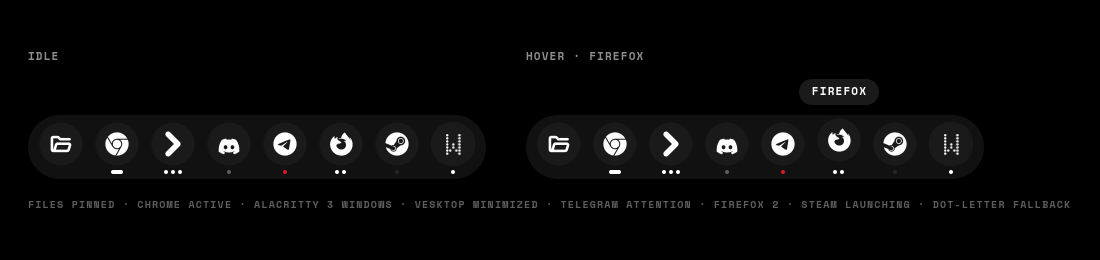
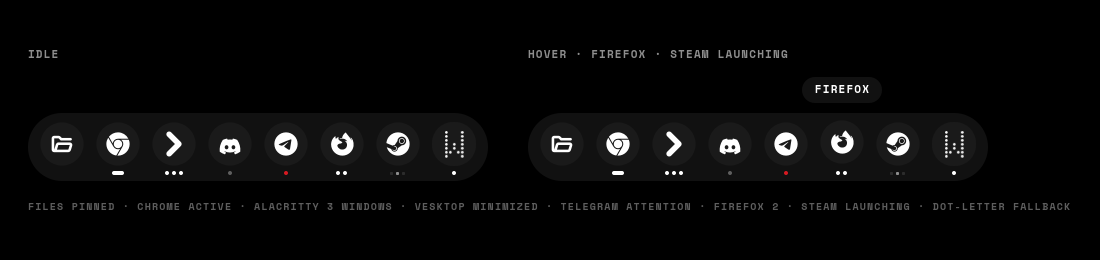
dock: round 2

diff --git a/plasma/plasmoids/org.nothing.dock/contents/ui/DockItem.qml b/plasma/plasmoids/org.nothing.dock/contents/ui/DockItem.qml
@@ -46,7 +46,7 @@ FocusScope {
     Item {
         id: lift
         width: bar.iconSize; height: bar.iconSize
-        y: bar.iconY - (slot.lifted ? 4 : 0)
+        y: bar.iconY - (slot.lifted ? 2 : 0)
         Behavior on y { SpringAnimation { spring: 5; damping: 0.32; epsilon: 0.05 } }
         scale: mouse.pressed ? 0.94 : 1
         Behavior on scale { SpringAnimation { spring: 6; damping: 0.42; epsilon: 0.002 } }
@@ -71,8 +71,8 @@ FocusScope {
             visible: !slot.info.themed && !slot.info.glyph && !slot.info.loading
             anchors.centerIn: parent
             text: (slot.label.match(/[A-Za-z0-9]/) || ["?"])[0].toUpperCase()
-            pitch: bar.iconSize / 15
-            dotRatio: 0.82
+            pitch: Math.round(bar.iconSize / 11.5)   // 4px at 46: 5×7 letter fits inside the 43px disc
+            dotRatio: 0.7
             color: Theme.fg
         }
         // keyboard focus: thin white ring just outside the disc
@@ -87,13 +87,22 @@ FocusScope {
 
     // ── indicators: dots under the disc ───────────────────────────────
     // running = white dot per window (max 3) · active = first dot stretches to a pill
-    // minimized = grey dots · attention = one red dot (the only red) · launching = pulsing grey dot
+    // minimized = grey #5e5e5e dots (one per window, max 3) · attention = one red dot (the only red)
+    // launching = three 3px dots lighting up in sequence (#8e8e8e), one always lit
+    readonly property bool launching: startup && !running && !attention
+    property int launchStep: 0
+    Timer {
+        running: slot.launching
+        interval: 160; repeat: true
+        onTriggered: slot.launchStep = (slot.launchStep + 1) % 3
+    }
     Row {
         id: dots
+        visible: !slot.launching
         anchors.horizontalCenter: parent.horizontalCenter
         y: bar.dotY
         spacing: 3
-        readonly property int count: slot.attention ? 1 : (slot.running ? Math.min(slot.windows, 3) : (slot.startup ? 1 : 0))
+        readonly property int count: slot.attention ? 1 : (slot.running ? Math.min(slot.windows, 3) : 0)
         Repeater {
             model: dots.count
             Rectangle {
@@ -101,16 +110,23 @@ FocusScope {
                 height: 4
                 width: index === 0 && slot.active && !slot.attention ? 12 : 4
                 radius: 2
-                color: slot.attention ? Theme.red : (slot.startup && !slot.running) ? Theme.fg3
-                     : slot.minimized ? Theme.fg3 : Theme.fg
+                color: slot.attention ? Theme.red : slot.minimized ? Theme.fg3 : Theme.fg
                 Behavior on width { NumberAnimation { duration: Theme.normal; easing.type: Easing.BezierSpline; easing.bezierCurve: Theme.emphasized } }
                 Behavior on color { ColorAnimation { duration: Theme.fast } }
-                SequentialAnimation on opacity {
-                    running: slot.startup && !slot.running
-                    loops: Animation.Infinite
-                    NumberAnimation { from: 1; to: 0.25; duration: 520; easing.type: Easing.InOutSine }
-                    NumberAnimation { from: 0.25; to: 1; duration: 520; easing.type: Easing.InOutSine }
-                }
+            }
+        }
+    }
+    Row {
+        visible: slot.launching
+        anchors.horizontalCenter: parent.horizontalCenter
+        y: bar.dotY + 0.5
+        spacing: 3
+        Repeater {
+            model: 3
+            Rectangle {
+                required property int index
+                width: 3; height: 3; radius: 1.5
+                color: index === slot.launchStep ? Theme.fg2 : Theme.dotDim
             }
         }
     }

diff --git a/plasma/plasmoids/org.nothing.dock/contents/ui/DockBar.qml b/plasma/plasmoids/org.nothing.dock/contents/ui/DockBar.qml
@@ -7,13 +7,14 @@ import "nothing"
 FocusScope {
     id: dockBar
     property var model                      // TasksModel, or a ListModel with the same role names
-    property int pillHeight: 64
-    property int iconSize: Math.round(pillHeight * 0.72)   // 46 at 64: theme disc ≈ 43px
+    property int pillHeight: 68
+    property int iconSize: pillHeight - 22                  // 46 at 68: theme disc ≈ 43px
     property int spacing: 10
-    property int padding: 10
+    property int padding: Math.round((pillHeight - iconSize) / 2)   // concentric end caps
     property color fill: Theme.card
-    readonly property int iconY: Math.round((pillHeight - iconSize) / 2) - 3
-    readonly property int dotY: iconY + iconSize + Math.round((pillHeight - iconY - iconSize - 4) / 2) - 1
+    // 68px pill: disc box 8–54, dots 58–62
+    readonly property int iconY: pillHeight - iconSize - 14
+    readonly property int dotY: iconY + iconSize + 4
 
     // (model) -> { themed: bool, icon: name/url, glyph: name/url } — how to draw the disc
     property var iconInfo: function (m) { return { themed: true, icon: m.decoration }; }

diff --git a/plasma/layout/nothing-layout.js b/plasma/layout/nothing-layout.js
@@ -30,14 +30,14 @@ for (const p of panels()) {
         dock.writeConfig("launchers", launchers);
         dock.reloadConfig();
     }
-    p.height = 64; p.floating = true; p.lengthMode = "fit"; p.alignment = "center"; p.hiding = "none";
+    p.height = 68; p.floating = true; p.lengthMode = "fit"; p.alignment = "center"; p.hiding = "none";
 }
 if (!haveBottom) {
     const p = new Panel("org.kde.panel");
     p.screen = 0;
     p.location = "bottom";
     p.addWidget(DOCK);
-    p.height = 64; p.floating = true; p.lengthMode = "fit"; p.alignment = "center"; p.hiding = "none";
+    p.height = 68; p.floating = true; p.lengthMode = "fit"; p.alignment = "center"; p.hiding = "none";
 }
 
 // 2. top bar on every screen (system tray only on the primary one)

diff --git a/plasma/plasmoids/org.nothing.dock/contents/ui/main.qml b/plasma/plasmoids/org.nothing.dock/contents/ui/main.qml
@@ -291,7 +291,7 @@ PlasmoidItem {
         anchors.centerIn: parent
         width: implicitWidth
         height: root.vertical ? implicitHeight : root.height
-        pillHeight: Math.max(40, Math.min(root.vertical ? 64 : root.height, 64))
+        pillHeight: Math.max(40, Math.min(root.vertical ? 68 : root.height, 68))
         iconInfo: m => root.iconInfo(m)
 
         onActivated: (index, mods) => root.activate(index, mods)

diff --git a/previews/DockPreview.qml b/previews/DockPreview.qml
@@ -34,7 +34,7 @@ Rectangle {
             }
             Column {
                 spacing: 50
-                Label { text: "Hover · Firefox" }
+                Label { text: "Hover · Firefox · Steam launching" }
                 DockBar { model: Tasks {} iconInfo: info; forcedHover: 5; inlineTooltip: true }
             }
         }

diff --git a/plasma/plasmoids/org.nothing.dock/contents/ui/DockTooltip.qml b/plasma/plasmoids/org.nothing.dock/contents/ui/DockTooltip.qml
@@ -11,7 +11,7 @@ Rectangle {
     width: implicitWidth
     height: implicitHeight
     radius: height / 2
-    color: Theme.widget
+    color: Theme.card
 
     Text {
         id: label
